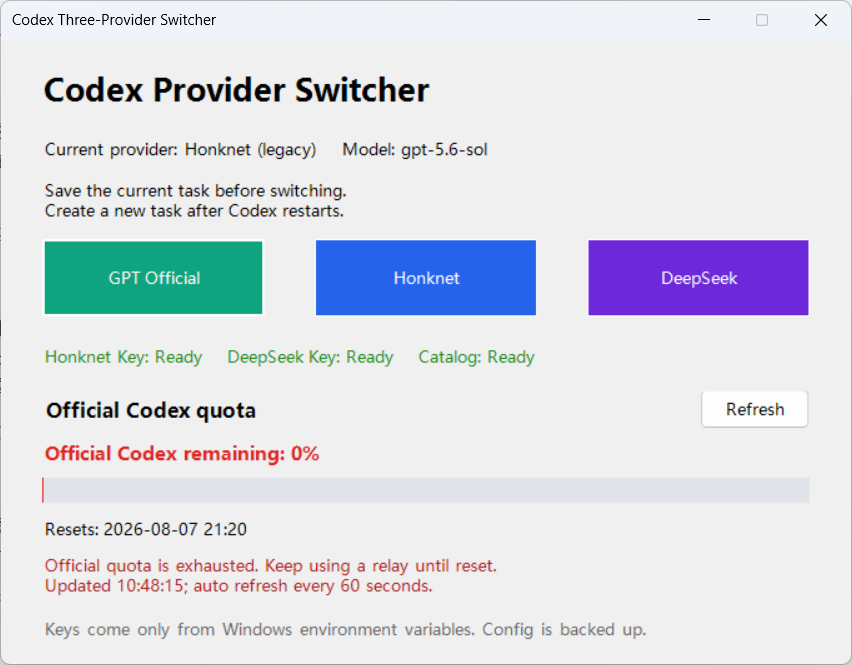
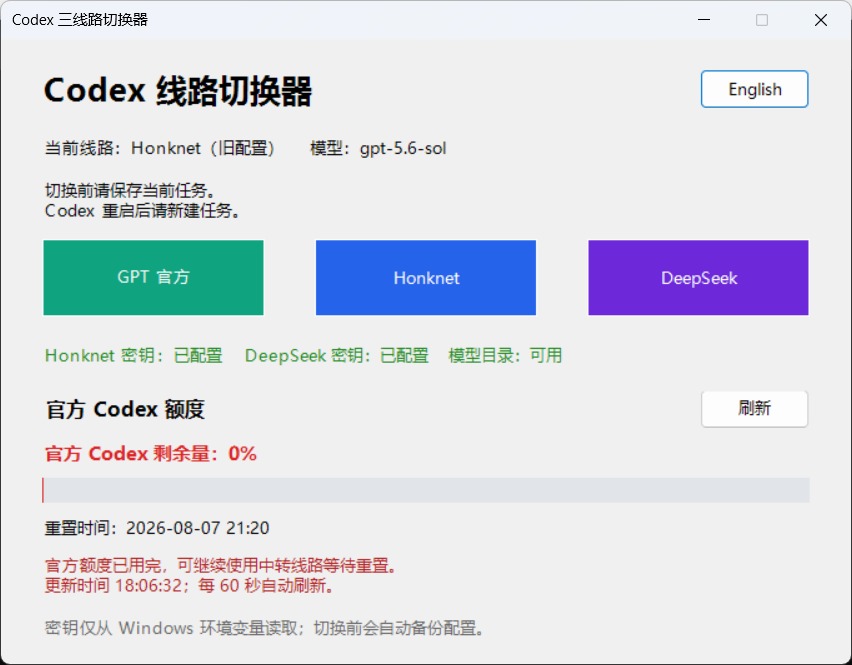
Add Chinese and English switcher UI
Use Chinese by default, support instant in-window language switching, preserve Windows PowerShell 5.1 encoding compatibility, and update documentation and screenshots.

diff --git a/README.md b/README.md
@@ -14,7 +14,7 @@
 
 ![Codex 三线路切换器最终界面](docs/assets/codex-provider-switcher.png)
 
-界面会显示当前 provider、模型、两个第三方 Key 的配置状态以及 DeepSeek 模型目录状态。截图中的 `Ready` 只表示对应配置在本机可用，不包含或展示任何真实 Key。
+面板默认显示中文；点击右上角的 `English` 可即时切换英文，再点击 `中文` 即可切回。界面会显示当前 provider、模型、两个第三方 Key 的配置状态以及 DeepSeek 模型目录状态。截图中的“已配置”只表示对应配置在本机可用，不包含或展示任何真实 Key。
 
 ## 为什么需要这个工具
 
@@ -43,6 +43,7 @@
 ## 它会做什么
 
 - 提供一个包含三个按钮的 Windows 桌面窗口。
+- 默认使用中文界面，并支持在窗口内即时切换中文和英文。
 - 切换前自动备份 `%USERPROFILE%\.codex\config.toml`。
 - 只替换顶层模型路由设置，并维护自己的 provider table。
 - 保留现有的插件、MCP、权限、features、projects 等其他配置。
@@ -219,6 +220,8 @@ Codex Three-Provider Switcher
 - DeepSeek 模型目录是否可用。
 - 官方 Codex 剩余百分比和重置时间。
 
+默认是中文界面。点击窗口右上角的 `English` 会立即切换全部面板文案、状态提示和弹窗；英文界面中点击 `中文` 可随时切回，不需要重启软件。
+
 三个按钮分别切换到：
 
 - `GPT Official`
@@ -268,6 +271,14 @@ powershell.exe -ExecutionPolicy Bypass -File .\CodexProviderSwitcher.ps1 -Mode g
 powershell.exe -ExecutionPolicy Bypass -File .\CodexProviderSwitcher.ps1 -Mode honkai
 powershell.exe -ExecutionPolicy Bypass -File .\CodexProviderSwitcher.ps1 -Mode ds
 ```
+
+需要直接以英文界面启动时：
+
+```powershell
+powershell.exe -ExecutionPolicy Bypass -File .\CodexProviderSwitcher.ps1 -Language en
+```
+
+不指定 `-Language` 时默认使用 `zh-CN`。
 
 别名对应关系：
 
@@ -344,7 +355,7 @@ powershell.exe -NoProfile -ExecutionPolicy Bypass -File .\tests\Test-Switcher.ps
 预期输出：
 
 ```text
-PASS: syntax, quota reader packaging, aliases, provider/model routing, unrelated config preservation, and backups.
+PASS: syntax, Chinese/English UI, quota reader packaging, aliases, provider/model routing, unrelated config preservation, and backups.
 ```
 
 真实线路验收清单：
